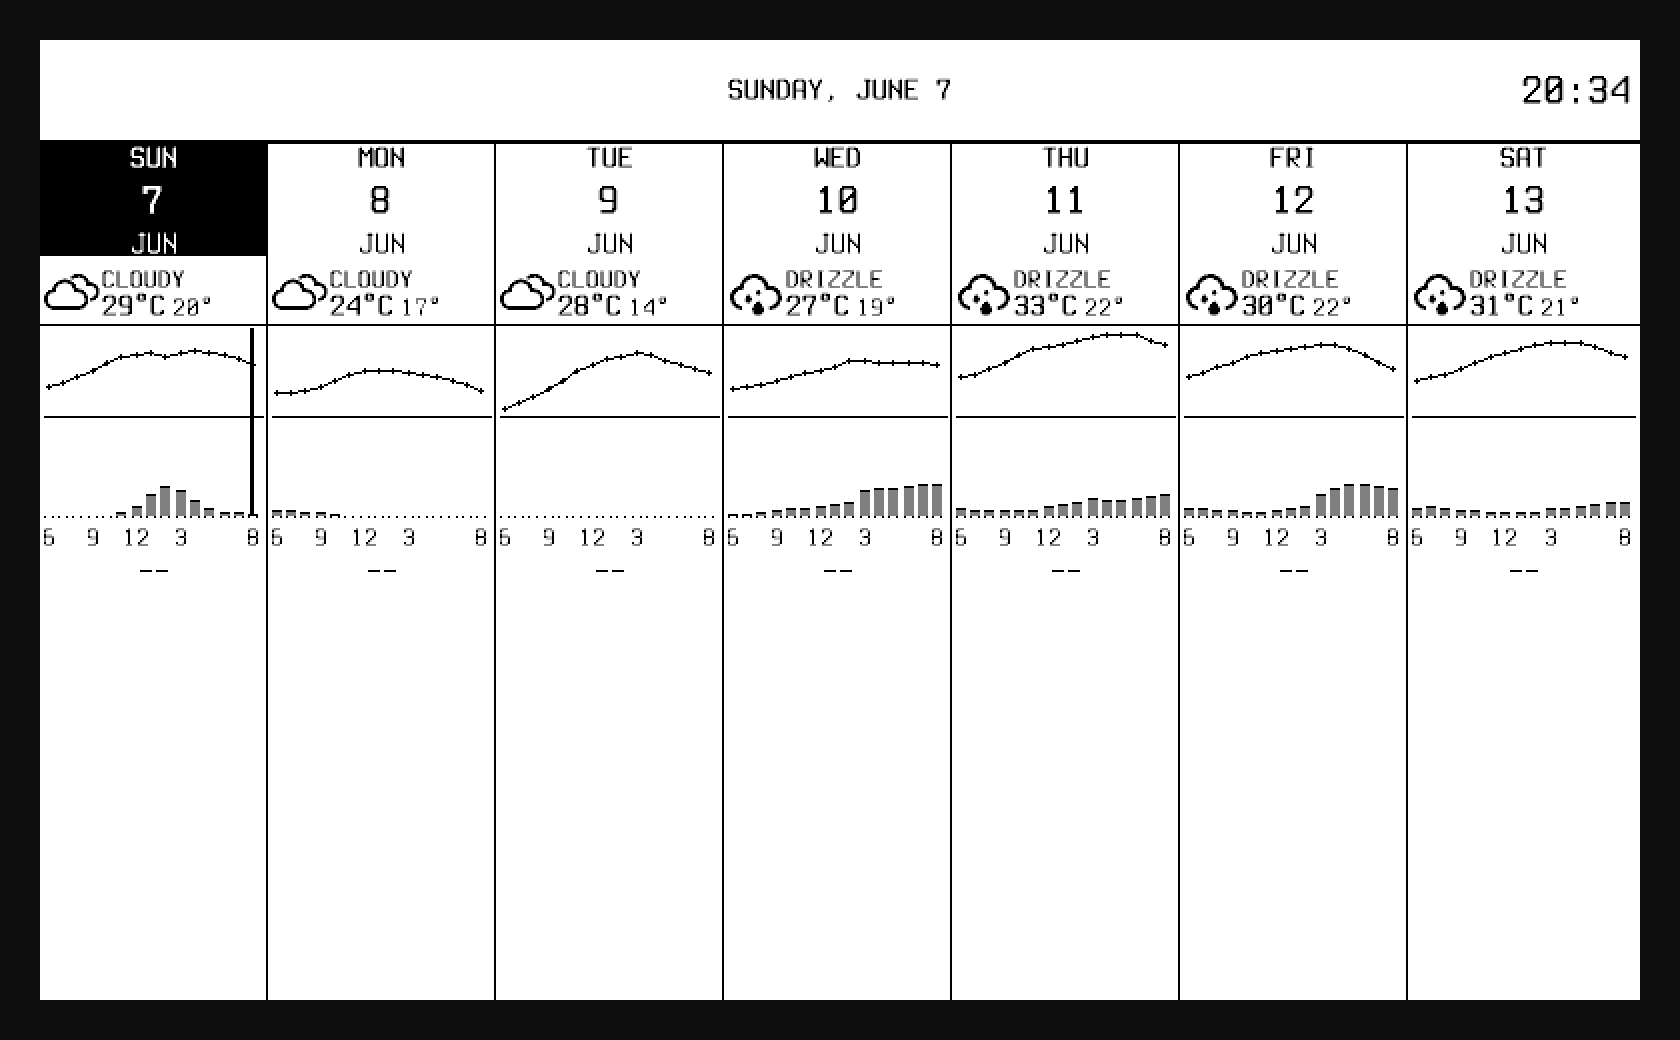
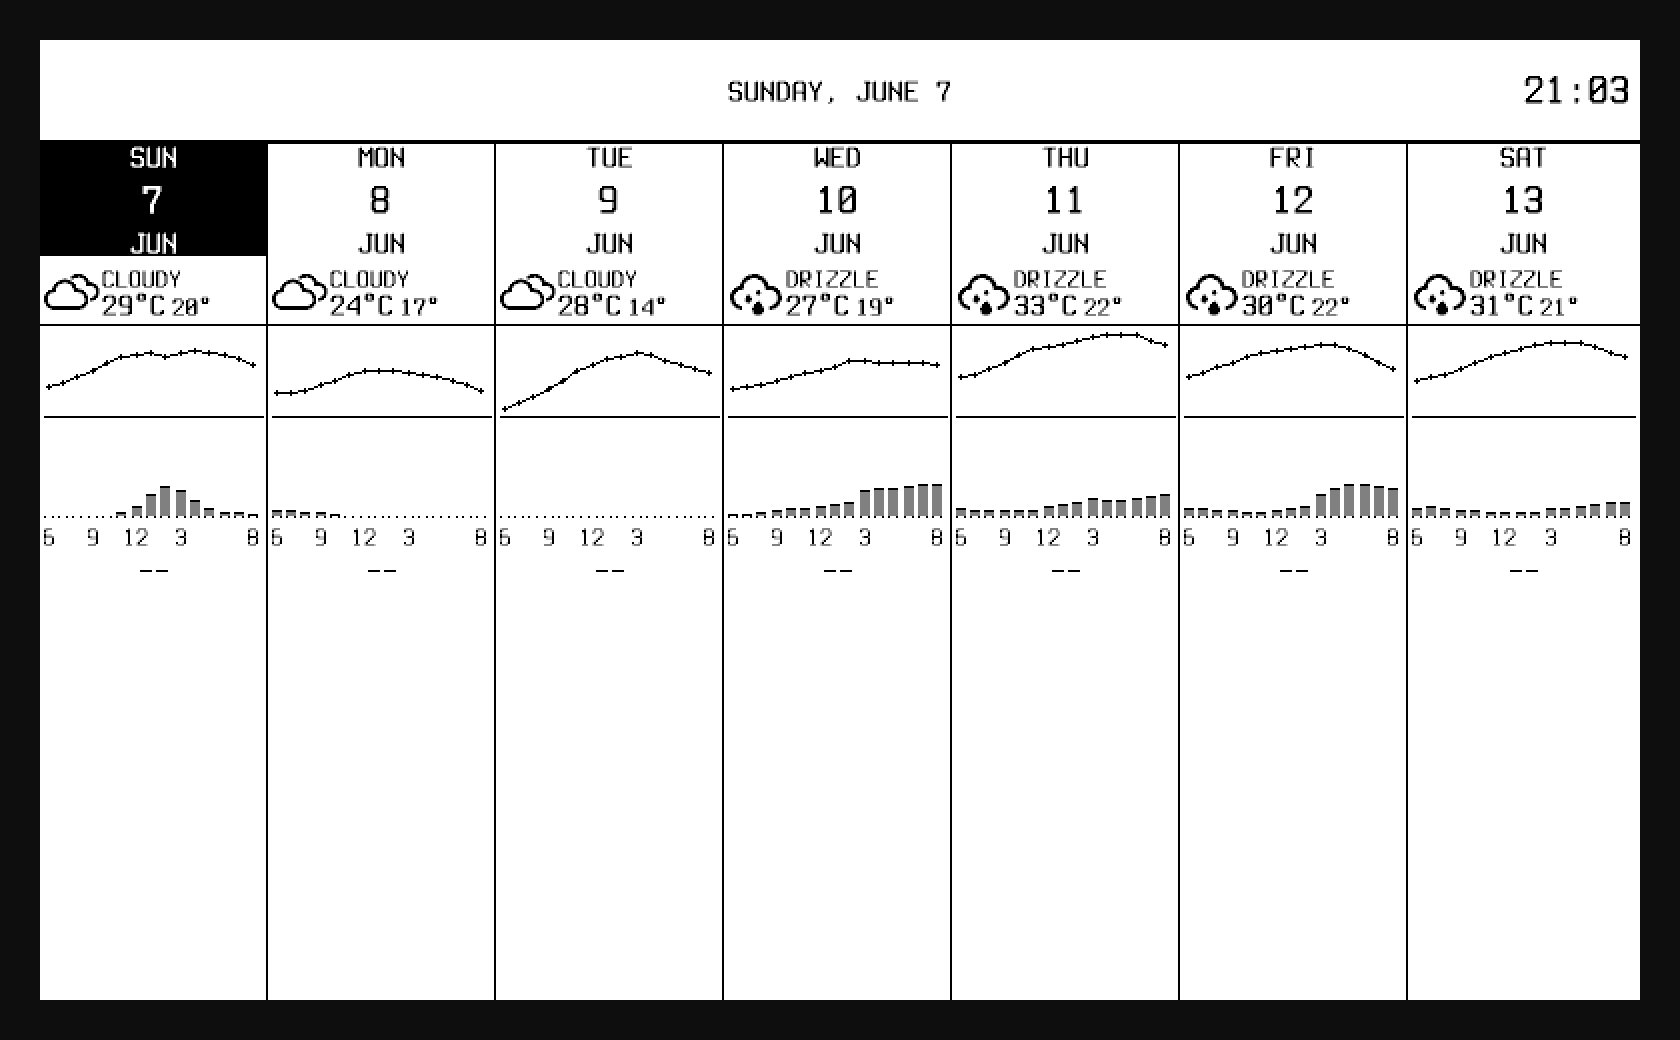
fix(rendering): bump small Regular text to SemiBold, default to gray4
Two follow-up fixes after the dither removal landed:

(1) On a real-device BW screenshot the month abbreviation "JUN" read as
".UN" — Terminus's Regular "J" at 12 pt has a 1-px stem and a hook that
sits a few pixels to the left of that stem. With dithering removed, the
thin stem and detached hook visually disconnect when rendered
black-on-white; only the inverted today column read cleanly because the
white-on-black contrast bridged the gap. Bumping `monthFace` and
`tempLoFace` (the only Regular-weight tiny text paths) to SemiBold
thickens stems to 2 px and ties the J's hook back into the stem, so
"JUN" and the low-temp digits ("17°", etc.) read cleanly across every
column without any source change. Also reverts the font hinting from
`HintingFull` back to `HintingVertical` — Full briefly looked like the
right fix but at 10–12 pt it snapped thin features (notably J's
descender) to zero pixels at some offsets; with PaperBlack as the only
text source color, Vertical hinting's AA fringe straddles the threshold
cleanly.

(2) Defaults shift from `bw` to `gray4` in both `DefaultConfig()` and
`inkwell.example.yaml`. With the rendering refresh, gray4 reads
materially better on hardware (precip-bar interiors stay dark gray
instead of collapsing to black, the dark-bucket polyline and dividers
get the panel's full waveform). BW is still selectable for users who
want the faster refresh / smaller framebuffer trade-off; the choice
just isn't the default anymore.

diff --git a/internal/inkwell/fonts/fonts.go b/internal/inkwell/fonts/fonts.go
@@ -79,17 +79,20 @@ func Face(weight Weight, sizePt float64) (font.Face, error) {
 	if weight >= SemiBold {
 		idx = 1
 	}
-	// HintingFull snaps every glyph edge to whole-pixel boundaries, so
-	// no fringe pixel is partially anti-aliased. That's the only choice
-	// that survives the BW packer's pure threshold: with the prior
-	// HintingVertical, horizontal edges of muted-gray text (Y=77 source)
-	// produced mid-luminance AA pixels which the threshold then chopped
-	// — leaving glyphs visibly fragmented. With Full hinting the source
-	// luminance lands as-is at every pixel, so PaperGray70 (Y < 128)
-	// renders as solid black on BW and as the dark-gray bucket on Gray4.
+	// HintingVertical keeps baselines and stems aligned to whole pixels
+	// while permitting horizontal anti-aliasing along glyph edges. With
+	// every text path now sourcing PaperBlack (Y=0), the AA fringe spans
+	// 0..255 and the BW packer's Y<128 threshold cuts it down the middle
+	// — half of each fringe stays black, keeping glyph shapes intact.
+	// HintingFull was briefly tried here to suppress AA entirely, but at
+	// 10–12 pt sizes it snapped thin features (notably the J's descender
+	// hook in Terminus) to zero pixels at some column offsets, so "JUN"
+	// rendered as ".UN" in several day-header columns. Vertical hinting
+	// + a black text source is the combination that's actually
+	// device-durable.
 	return opentype.NewFace(parsedFonts[idx], &opentype.FaceOptions{
 		Size:    sizePt,
 		DPI:     96,
-		Hinting: font.HintingFull,
+		Hinting: font.HintingVertical,
 	})
 }

diff --git a/internal/inkwell/widgets/weekly/day_header.go b/internal/inkwell/widgets/weekly/day_header.go
@@ -20,7 +20,14 @@ var (
 func init() {
 	dayAbbrFace = mustLoadHeaderFace(fonts.SemiBold, 12, "day abbr")
 	dateNumFace = mustLoadHeaderFace(fonts.SemiBold, 16, "date num")
-	monthFace = mustLoadHeaderFace(fonts.Regular, 12, "month")
+	// Month abbr is SemiBold (not Regular) because Terminus's Regular
+	// "J" at 12 pt renders with a 1-px stem and a hook that sits to the
+	// left of that stem, which reads on-device as a disconnected
+	// ".UN" — the user couldn't see the J at all from across the room.
+	// SemiBold widens the stem to 2 px and ties the hook into it, so
+	// "JUN" reads cleanly black-on-white. Today's inverted column was
+	// fine in Regular because the white-on-black contrast hid the gap.
+	monthFace = mustLoadHeaderFace(fonts.SemiBold, 12, "month")
 }
 
 // mustLoadHeaderFace is extracted so the per-face panic branches are

diff --git a/internal/inkwell/config.go b/internal/inkwell/config.go
@@ -66,11 +66,17 @@ type ImageConfig struct {
 }
 
 // DefaultConfig returns a Config with all defaults applied.
+//
+// ColorMode defaults to "gray4" because the post-refresh rendering reads
+// noticeably better on hardware than 1-bit BW — precip bars stay as a
+// dark gray instead of collapsing to solid black, and the design intent
+// shines through. BW is still available for users who want the smaller
+// framebuffer / faster refresh trade-off.
 func DefaultConfig() *Config {
 	return &Config{
 		Display:         "waveshare_7in5_v2",
 		Backend:         "preview",
-		ColorMode:       "bw",
+		ColorMode:       "gray4",
 		ClearOnShutdown: true,
 		Preview:         PreviewConfig{Port: 8080},
 		Image:           ImageConfig{OutputDir: "output"},

diff --git a/internal/inkwell/widgets/weatherview/weatherview.go b/internal/inkwell/widgets/weatherview/weatherview.go
@@ -24,7 +24,12 @@ var (
 func init() {
 	labelFace = mustLoadFace(fonts.SemiBold, 10, "label")
 	tempHiFace = mustLoadFace(fonts.Bold, 12, "temp hi")
-	tempLoFace = mustLoadFace(fonts.Regular, 10, "temp lo")
+	// Lo temp is SemiBold (not Regular) for the same reason monthFace
+	// in day_header.go is — Terminus's Regular at 10 pt produces glyphs
+	// with 1-px stems and detached features that fragment on-device
+	// after the BW threshold. SemiBold's 2-px stems are robust. The
+	// hi/lo hierarchy is still readable: Bold 12 vs. SemiBold 10.
+	tempLoFace = mustLoadFace(fonts.SemiBold, 10, "temp lo")
 }
 
 // mustLoadFace is extracted so the per-face panic branches are

diff --git a/internal/inkwell/config_test.go b/internal/inkwell/config_test.go
@@ -217,8 +217,8 @@ func TestDefaultConfig(t *testing.T) {
 	if cfg.Image.OutputDir != "output" {
 		t.Errorf("Image.OutputDir = %q, want output", cfg.Image.OutputDir)
 	}
-	if cfg.ColorMode != "bw" {
-		t.Errorf("ColorMode = %q, want bw", cfg.ColorMode)
+	if cfg.ColorMode != "gray4" {
+		t.Errorf("ColorMode = %q, want gray4", cfg.ColorMode)
 	}
 	if !cfg.ClearOnShutdown {
 		t.Errorf("ClearOnShutdown = false, want true (default)")
@@ -270,7 +270,7 @@ func TestLoadConfig_ColorMode(t *testing.T) {
 		{
 			label: "default omitted",
 			yaml:  "display: waveshare_7in5_v2",
-			want:  "bw",
+			want:  "gray4",
 		},
 		{
 			label: "explicit bw",

diff --git a/internal/inkwell/app_test.go b/internal/inkwell/app_test.go
@@ -917,6 +917,7 @@ func TestNewApp_ColorModeBW_LeavesProfileBW(t *testing.T) {
 	cfg, err := LoadConfig(strings.NewReader(`
 display: waveshare_7in5_v2
 backend: preview
+color_mode: bw
 `))
 	if err != nil {
 		t.Fatalf("LoadConfig: %v", err)